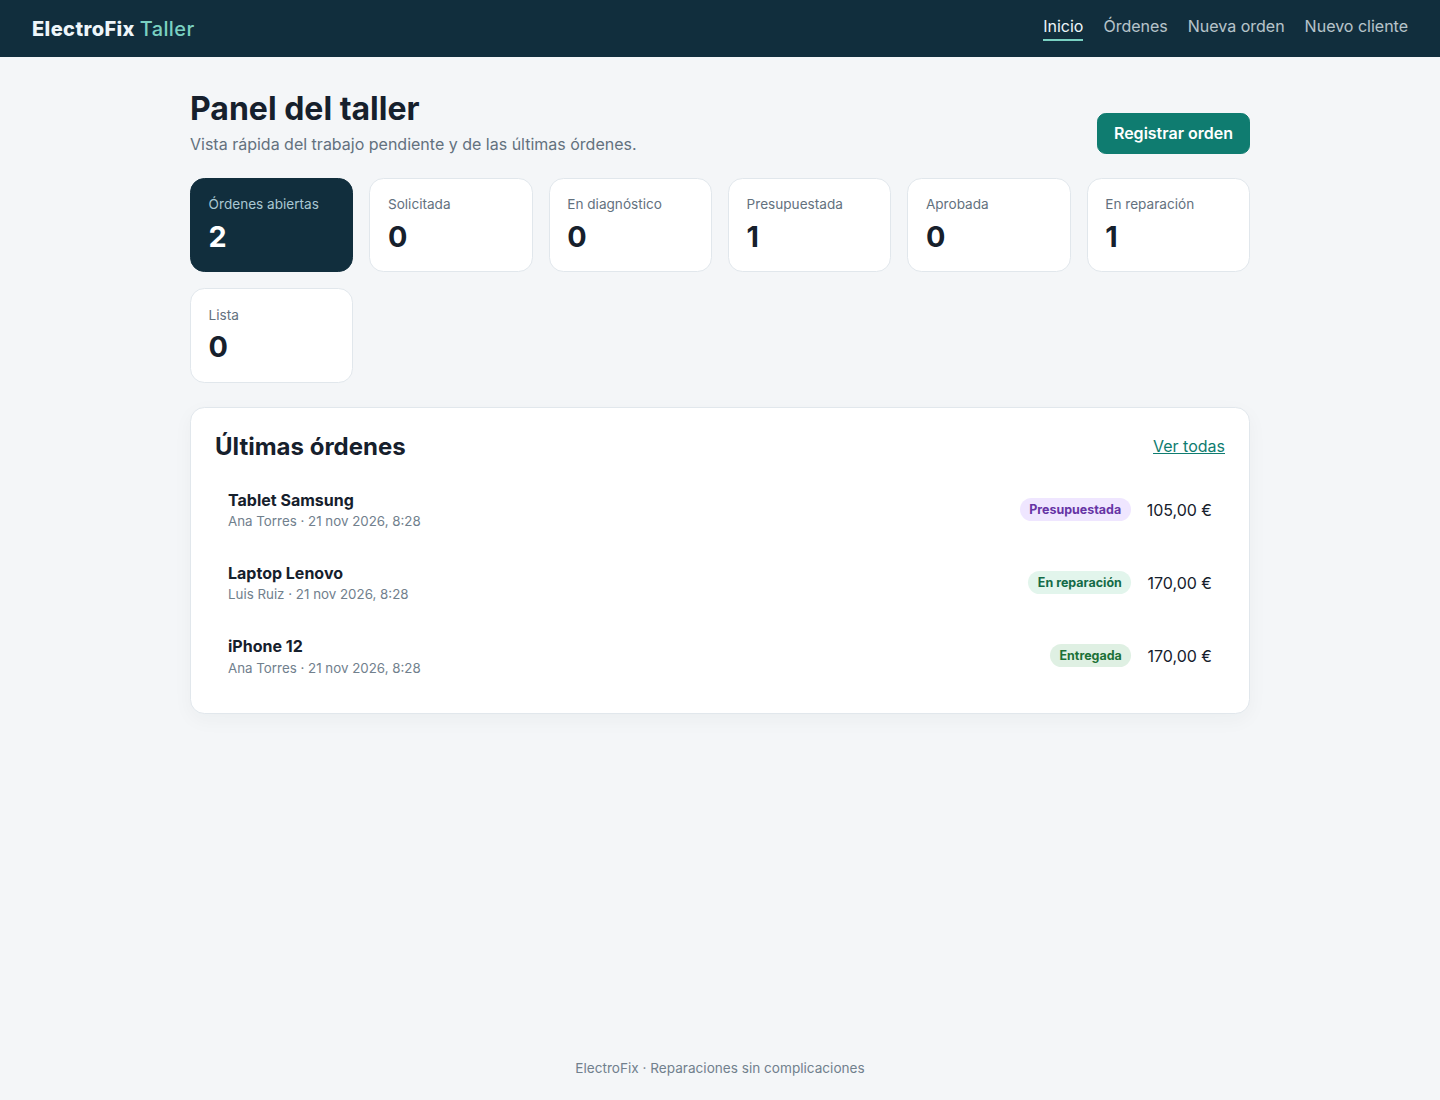
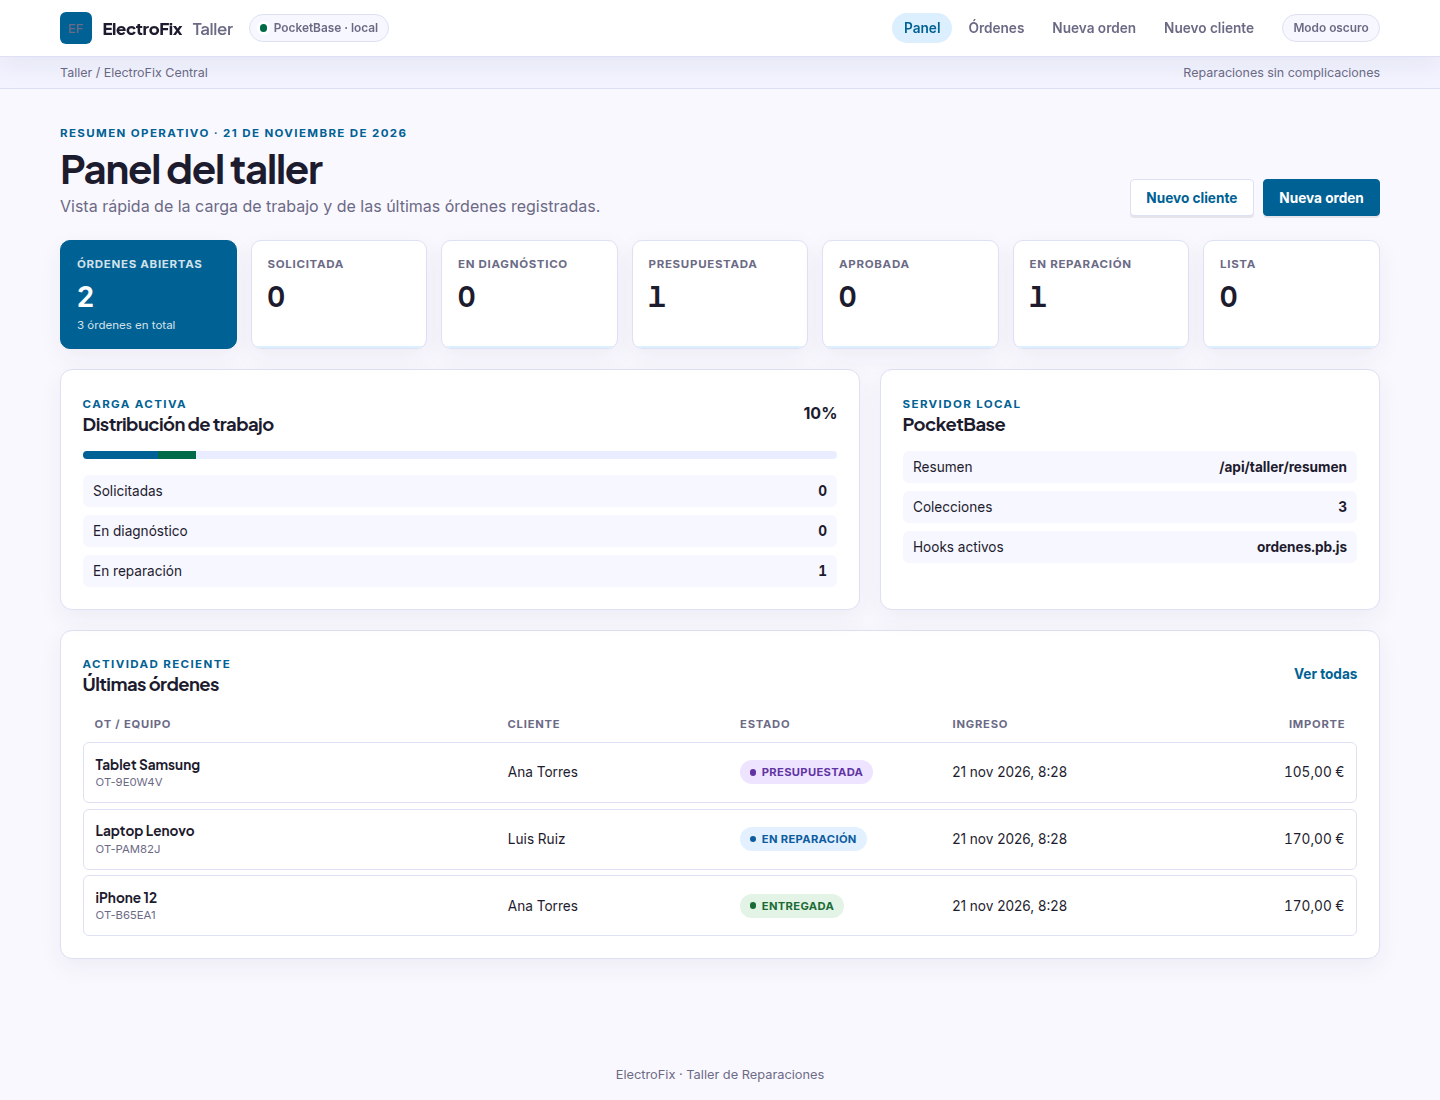
docs: refresh screenshots and theme note

diff --git a/README.md b/README.md
@@ -79,6 +79,8 @@ npm run dev
 
 El servidor de desarrollo usa un proxy de Vite: las peticiones a `/api` se reenvían a `http://127.0.0.1:8090`.
 
+La interfaz aplica los tokens visuales de `Workshop Precision`. El botón de tema alterna entre modo claro y oscuro y guarda la preferencia en el navegador.
+
 Para apuntar a otro backend:
 
 ```bash
